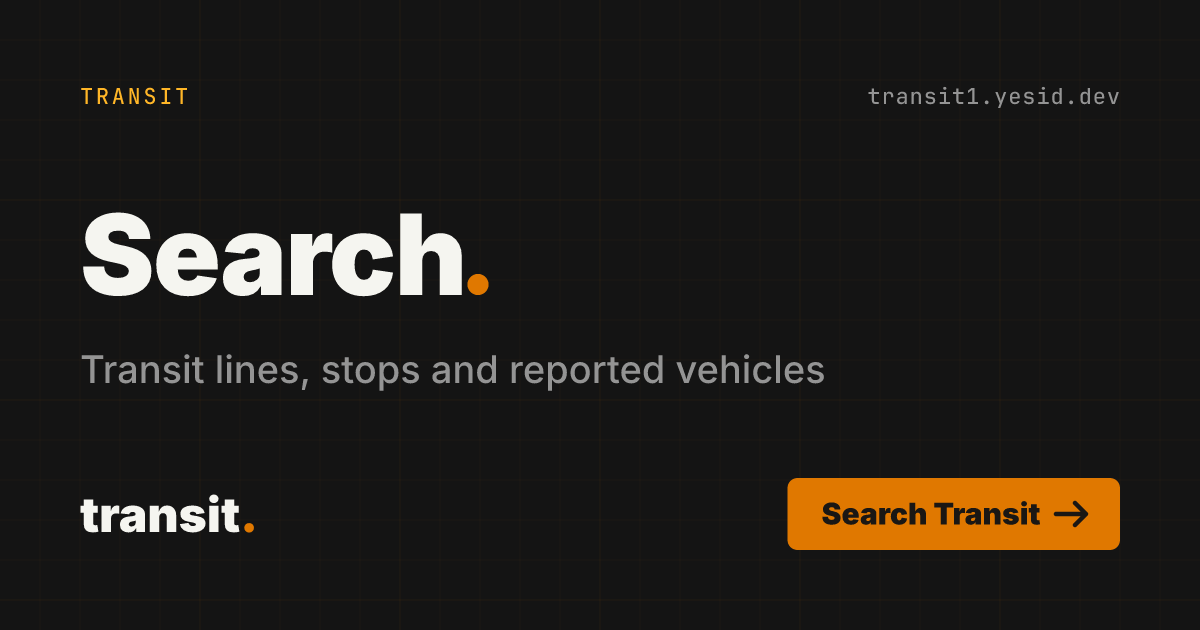
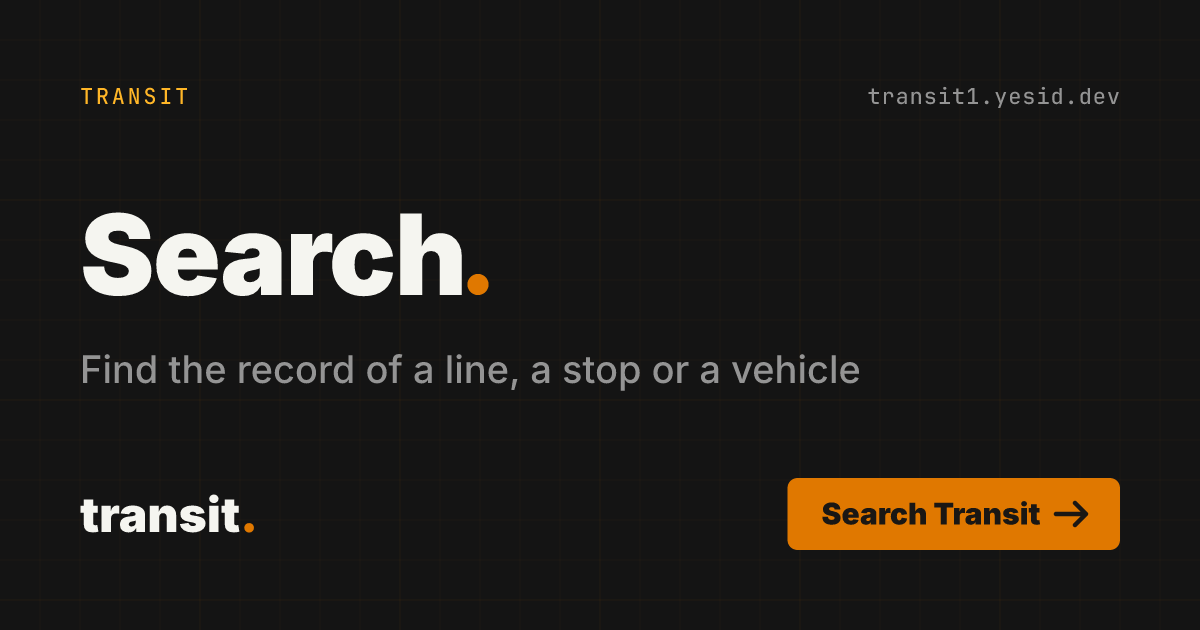
fix: share cards describe a public record, not a trip planner
Search descriptions and share cards for the home page, Lines, Stops, Network
health, Search, How we measure, Daily report, a line and a stop now say what
the record measures instead of routes, schedules and predicted departures. The
line and stop card titles read Line record and Stop record. Cards regenerated
with bun scripts/build-og.ts.

Changed region(s): [[0.0617, 0.5429, 0.74, 0.6333]]

diff --git a/apps/web/src/lib/seo/share-copy.ts b/apps/web/src/lib/seo/share-copy.ts
@@ -3,11 +3,11 @@ import type { Locale } from '../i18n/config';
 export const SHARE_COPY = {
 	'/': {
 		en: {
-			support: 'Transit lines, stops and reliability reports',
+			support: 'An independent public record of transit service delivered',
 			cta: 'Explore the network',
 		},
 		fr: {
-			support: 'Lignes, arrêts et bilans de fiabilité',
+			support: 'Un bilan public et indépendant du service réellement offert',
 			cta: 'Explorer le réseau',
 		},
 	},
@@ -23,51 +23,51 @@ export const SHARE_COPY = {
 	},
 	'/lines': {
 		en: {
-			support: 'Transit lines by mode, routes and schedules',
+			support: 'How on time each line ran and how much of its service was delivered',
 			cta: 'Browse lines',
 		},
 		fr: {
-			support: 'Lignes par mode, parcours et horaires',
+			support: 'La ponctualité de chaque ligne et ses trajets effectués',
 			cta: 'Voir les lignes',
 		},
 	},
 	'/stops': {
 		en: {
-			support: 'Transit stops, predicted departures and schedules',
+			support: 'How on time vehicles were at each stop, day by day',
 			cta: 'Find a stop',
 		},
 		fr: {
-			support: 'Arrêts, passages prévus et horaires',
+			support: 'La ponctualité des passages à chaque arrêt, jour par jour',
 			cta: 'Trouver un arrêt',
 		},
 	},
 	'/network': {
 		en: {
-			support: 'Transit punctuality, delays and reported service',
+			support: 'How on time the network ran and how much of its service was delivered',
 			cta: 'View network health',
 		},
 		fr: {
-			support: 'Ponctualité, retards et service signalé',
+			support: 'La ponctualité du réseau et les trajets effectués',
 			cta: 'Voir la santé du réseau',
 		},
 	},
 	'/search': {
 		en: {
-			support: 'Transit lines, stops and reported vehicles',
+			support: 'Find the record of a line, a stop or a vehicle',
 			cta: 'Search Transit',
 		},
 		fr: {
-			support: 'Lignes, arrêts et véhicules signalés',
+			support: 'Trouver le bilan d’une ligne, d’un arrêt ou d’un véhicule',
 			cta: 'Chercher dans Transit',
 		},
 	},
 	'/metrics': {
 		en: {
-			support: 'Reliability metrics from predictions, with limits',
+			support: 'What each measure counts, leaves out and cannot tell',
 			cta: 'See how we measure',
 		},
 		fr: {
-			support: 'Indicateurs de fiabilité issus des prévisions',
+			support: 'Ce que chaque mesure compte, exclut et ne peut pas dire',
 			cta: 'Voir comment on mesure',
 		},
 	},
@@ -93,11 +93,11 @@ export const SHARE_COPY = {
 	},
 	'/receipt': {
 		en: {
-			support: 'On-time performance and service by date',
+			support: 'One day of service: how on time it ran and how much was delivered',
 			cta: 'Read the daily report',
 		},
 		fr: {
-			support: 'Ponctualité et service par date',
+			support: 'Une journée de service, sa ponctualité et ses trajets effectués',
 			cta: 'Lire le rapport quotidien',
 		},
 	},
@@ -153,21 +153,21 @@ export const SHARE_COPY = {
 	},
 	'/lines/detail': {
 		en: {
-			support: 'Line route, directions and schedule',
+			support: 'How on time the line ran and how much of its service was delivered',
 			cta: 'View the line',
 		},
 		fr: {
-			support: 'Parcours, directions et horaire de la ligne',
+			support: 'La ponctualité de la ligne et ses trajets effectués, jour par jour',
 			cta: 'Voir la ligne',
 		},
 	},
 	'/stop/detail': {
 		en: {
-			support: 'Stop schedules and predicted departures',
+			support: 'How on time vehicles were at this stop, day by day',
 			cta: 'View the stop',
 		},
 		fr: {
-			support: 'Horaires et passages prévus à l’arrêt',
+			support: 'La ponctualité des passages à cet arrêt, jour par jour',
 			cta: 'Voir l’arrêt',
 		},
 	},

diff --git a/apps/web/src/lib/seo/share-copy.test.ts b/apps/web/src/lib/seo/share-copy.test.ts
@@ -49,3 +49,16 @@ it('adds the CTA to discovered provider copy without losing the identity', () =>
 			expect(seo.description.endsWith(shareCopy('/', locale).cta + '.')).toBe(true);
 		}
 });
+
+it('describes a record of service delivered, not a trip planner', () => {
+	const planner = /schedule|predicted|route,|horaire|prévus|parcours/iu;
+	for (const locale of ['en', 'fr'] as const)
+		for (const path of paths) expect(shareCopy(path, locale).support, path).not.toMatch(planner);
+	expect(shareCopy('/lines/51', 'en').support).toBe(
+		'How on time the line ran and how much of its service was delivered',
+	);
+	expect(shareCopy('/stop/52847', 'fr').support).toBe(
+		'La ponctualité des passages à cet arrêt, jour par jour',
+	);
+	expect(resolveRouteSeo('/lines/51', 'fr').title).toBe('Bilan de la ligne');
+});

diff --git a/apps/web/src/lib/seo/routeSeo.ts b/apps/web/src/lib/seo/routeSeo.ts
@@ -124,7 +124,7 @@ const SURFACES: Record<string, BilingualSeo> = {
 };
 
 const LINE_DETAIL: BilingualSeo = {
-	title: { en: 'Line detail', fr: 'Détail de la ligne' },
+	title: { en: 'Line record', fr: 'Bilan de la ligne' },
 };
 
 // The map's Record view shows the record of stops and corridors, not live vehicles (WCAG 2.4.2).
@@ -133,7 +133,7 @@ export const MAP_RECORD: BilingualSeo = {
 };
 
 const STOP_DETAIL: BilingualSeo = {
-	title: { en: 'Stop detail', fr: 'Détail de l’arrêt' },
+	title: { en: 'Stop record', fr: 'Bilan de l’arrêt' },
 };
 
 function entryFor(path: string, params: URLSearchParams): BilingualSeo {

diff --git a/apps/web/src/lib/seo/routeSeo.test.ts b/apps/web/src/lib/seo/routeSeo.test.ts
@@ -123,8 +123,8 @@ describe('resolveRouteSeo', () => {
 	});
 
 	it('falls detail routes back to section-level SEO', () => {
-		expect(resolveRouteSeo('/lines/1', 'en').title).toBe('Line detail');
-		expect(resolveRouteSeo('/stop/5', 'en').title).toBe('Stop detail');
+		expect(resolveRouteSeo('/lines/1', 'en').title).toBe('Line record');
+		expect(resolveRouteSeo('/stop/5', 'en').title).toBe('Stop record');
 	});
 
 	it('keeps neutral descriptions nonempty and concise', () => {
